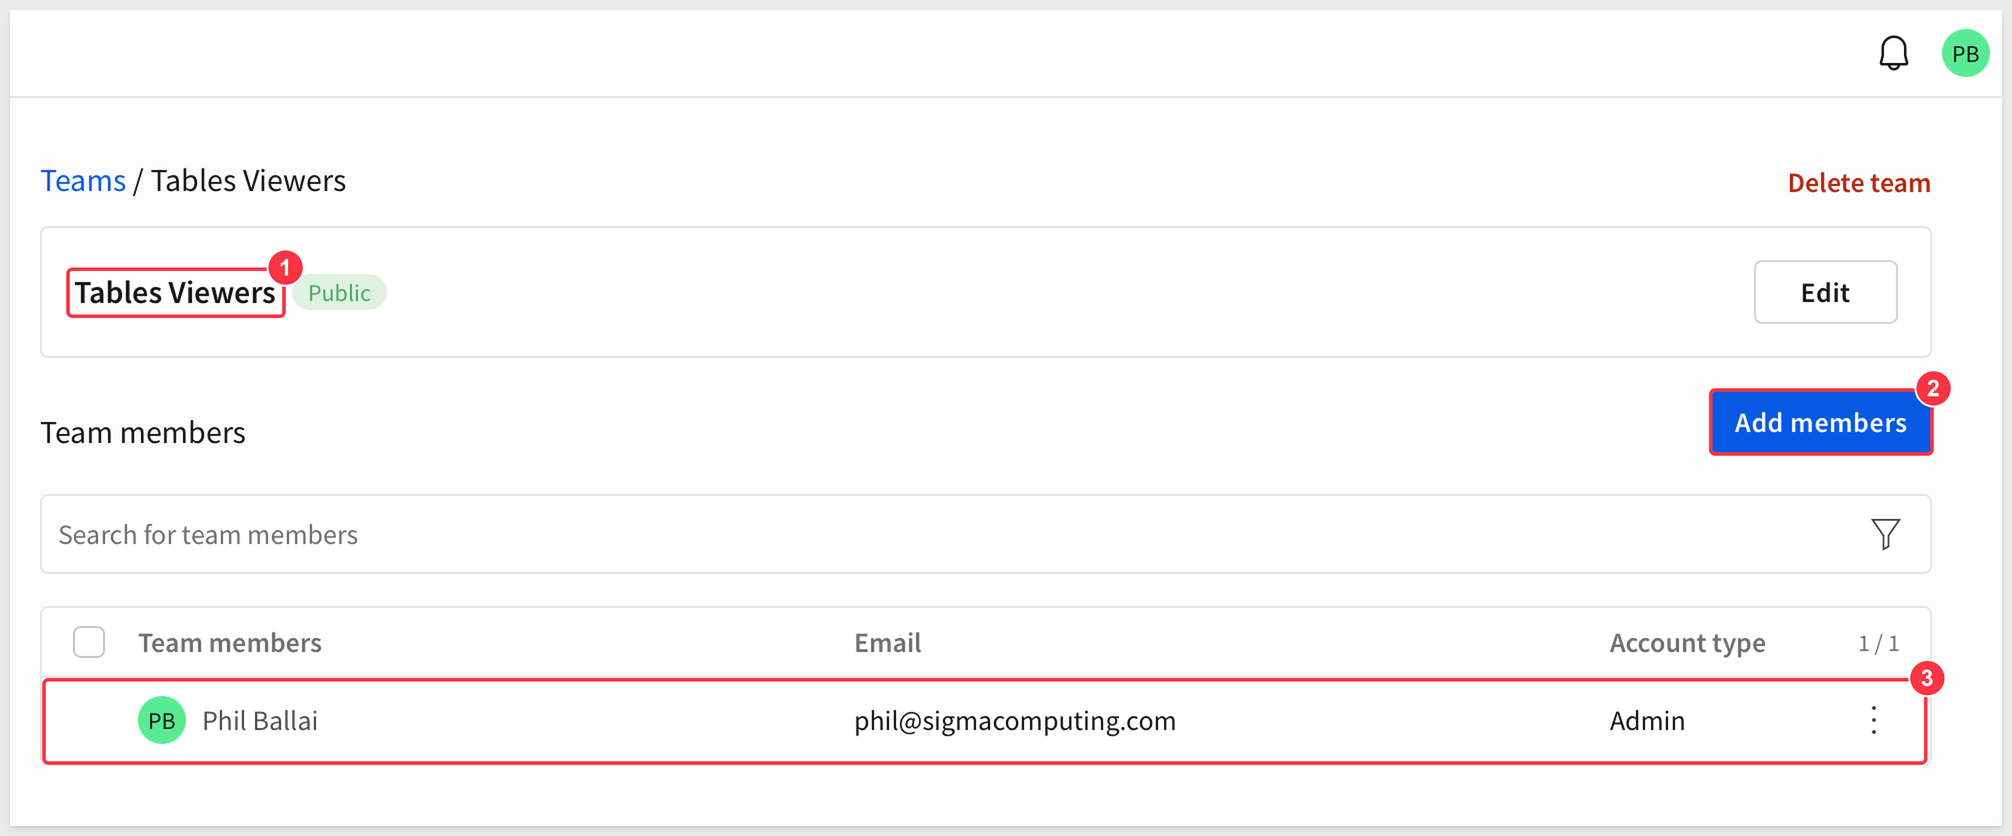
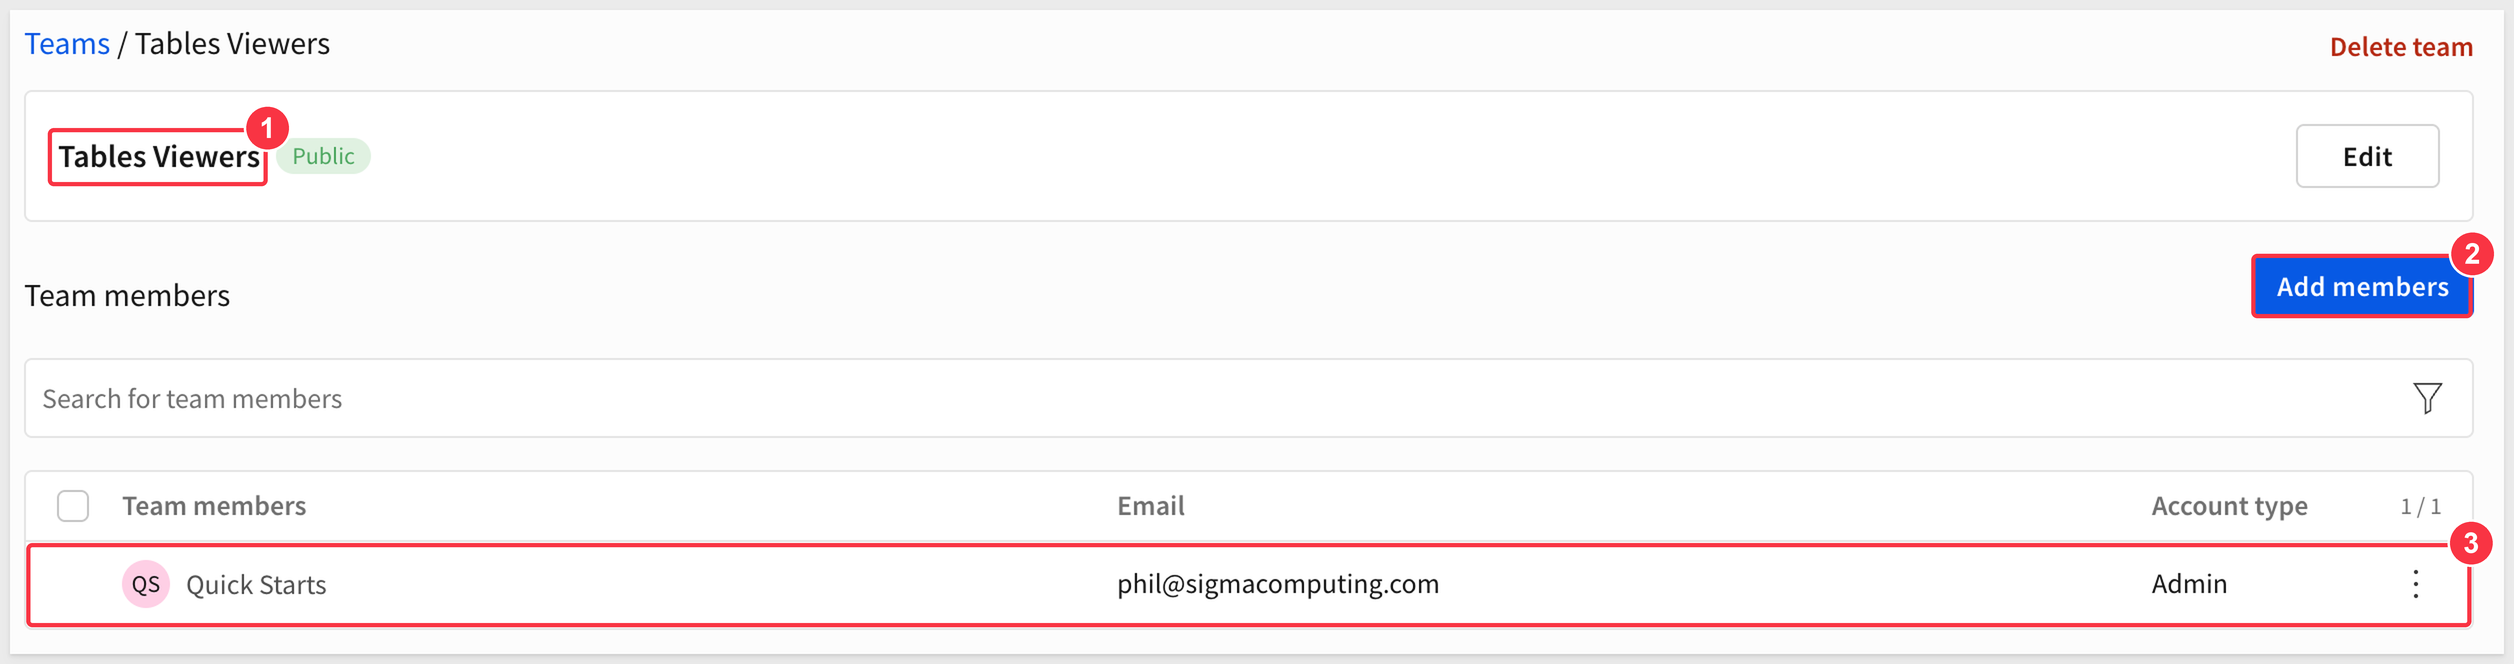
Revise Create and Promote Sigma Tables for the new grants UI and staging screenshots
Paused pending a promotion bug (source element columns do not exist after Promote table).

diff --git a/site/sigmaguides/src/tables_create_and_promote_sigma_tables/tables_create_and_promote_sigma_tables.md b/site/sigmaguides/src/tables_create_and_promote_sigma_tables/tables_create_and_promote_sigma_tables.md
@@ -73,14 +73,15 @@ A Sigma table can start from scratch, much like an input table, inside a workboo
 
 <button>[Download the Sigma Tables Sample CSV](https://sigma-quickstarts-main.s3.us-west-1.amazonaws.com/sigma-tables/sigma-tables-sample-data.csv)</button>
 
-**2.** In a workbook, open the element bar and select `Input` (1), then `Sigma table` (2). Choose to upload a CSV file. <!-- VERIFY: how the upload CSV option is chosen after Sigma table; see ctp_02 -->
+**2.** In a workbook, open the element bar and select `Input` (1), then `Sigma table` (2).
 
 <img src="assets/ctp_01.png" width="900"/>
 
-<aside class="negative"><strong>SCREENSHOT REQUIRED: ctp_02</strong><br> Create Sigma table dialog: Upload CSV tab, connection, Upload CSV button (waiting on a decision about the beta/GA sentence in the dialog)</aside>
-<!-- <img src="assets/ctp_02.png" width="700"/> -->
+In the `Create Sigma table` dialog, select the `Upload CSV` tab (1), confirm the connection (2), then click `Upload CSV` (3). The connection needs write access, because Sigma saves the table there.
 
-**3.** Select `sigma-tables-sample-data.csv` when prompted. <!-- VERIFY: confirm the file picker appears when you click Upload CSV in the Create Sigma table dialog -->
+<img src="assets/ctp_02.png" width="500"/>
+
+**3.** Select "sigma-tables-sample-data.csv" when prompted. <!-- VERIFY: confirm the file picker appears when you click Upload CSV in the Create Sigma table dialog -->
 
 **4.** In the `Upload CSV` dialog, confirm the `Connection` (1) and leave `Contains headers` selected (2). Check that `Results` shows `20 rows - 7 columns` (3), then click `Save` (4).
 
@@ -103,6 +104,14 @@ Open the data source menu (1). It offers `Manage grants` (2) to control who can 
 <aside class="negative">
 <strong>IMPORTANT:</strong><br> Change the primary key before you promote the table. It cannot be changed afterwards.
 </aside>
+
+**6.** Hide the `Id` column that Sigma added as the primary key, so the table shows only the ticket data. Open the menu for the `Id` column and select `Hide column`. <!-- VERIFY: the Hide column menu label (the capture shows Unhide column on the hidden column) -->
+
+<aside class="negative"><strong>SCREENSHOT REQUIRED: ctp_05a</strong><br> Sigma table with the Id column menu open and Hide column selected</aside>
+
+<!-- <img src="assets/ctp_05a.png" width="700"/> -->
+
+**7.** Save the workbook by clicking `Save as` and naming it `Sigma Tables Lab`. The table is local to this workbook, so saving keeps it available for the sections that follow. <!-- VERIFY: button label for a new workbook (Save vs Save as) and the name used later in the QS -->
 
 ![Footer](assets/sigma_footer.png)
 <!-- END OF SECTION-->
@@ -138,9 +147,15 @@ Sigma controls who can use a table through teams. We will create two test teams 
 ## Control Access to the Table
 Duration: 8
 
-Open the data source menu and select `Manage grants`. In the `Local table management` dialog, the `Table grants` list (1) shows who has access. For a table you created, that is you, with `Can own` (2). Select `Grant access` (3) to add others.
+A Sigma table keeps access control next to the data, so you decide who can use it without leaving the workbook. We will start by opening the grant controls for the table.
 
-<img src="assets/ctp_11.png" width="900"/>
+**1.** Return to the `Sigma Tables Lab` workbook and select the Sigma table.
+
+**2.** In the element panel, open the data source menu (1) and select `Manage grants` (2).
+
+<img src="assets/ctp_11.png" width="400"/>
+
+<!-- VERIFY: the Manage grants dialog changed in the new UI. The paragraph that described the old `Local table management` dialog (Table grants list, `Can own`, `Grant access`) was removed 2026-11-11. Capture the new dialog, then write what it shows and how to add others. -->
 
 <!-- VERIFY: row and column rules are not visible in this dialog (it scrolls right). The draft said: Under `Row and column level rules`, the default rule gives other people `View and edit` on all rows and all columns. Capture it, or remove it, and re-check the `Add rule` steps below. -->
 
@@ -148,26 +163,42 @@ Open the data source menu and select `Manage grants`. In the `Local table manage
 
 To restrict this, add rules that stack on top of each other:
 
-**1.** Click `Add rule`, select the `Tables Viewers` team, and set the permission to `View`.
+**1.** Click `Add rule` (1), select the `Tables Viewers` team under `Who can access` (2), and set `Permit to` as `View only` (3). Leave `Row` set to `All rows`, make sure `Column` is turned on, and clear `Id` in the column list so the team sees every other column. <!-- VERIFY: column picker behavior and label; ctp_12 shows `7 columns` because the Column list was already changed -->
 
-**2.** Add a second rule for the `Tables Editors` team with `View and edit`.
+**2.** Add a second rule for the `Tables Editors` team with `View and edit`. With `View and edit`, `Column` is always on, so select `All columns`. Editors can then see the `Id` column, which the viewers cannot.
 
-**3.** Click `Save`.
+**3.** Click `Save` (4).
 
-<aside class="negative"><strong>SCREENSHOT REQUIRED: ctp_12</strong><br> Add rule dialog with the team rules set up (use clean test teams)</aside>
-<!-- <img src="assets/ctp_12.png" width="900"/> -->
-<!-- SOURCE FRAME: frames/t0162.jpg, t0172.jpg, t0193.jpg. Recapture. -->
+<img src="assets/ctp_12.png" width="900"/>
 
-Rules can apply at the row level or the column level. <!-- VERIFY: how rows and columns are scoped in the rule dialog -->
+Under `Scope`, `Row` is on by default and limits a rule to specific rows. `Column` limits it to specific columns. With `View only`, turn `Column` on to choose the columns. With `View and edit`, `Column` cannot be turned off, the primary key column is included by default, and you can add more columns or select `All columns`.
 
-Back in the workbook, the table now shows no data, as expected: the current user is not on either team. Remove the rule to see the data again.
+### User Impersonation
 
-<aside class="negative"><strong>SCREENSHOT REQUIRED: ctp_13</strong><br> Table showing "No data" while the rules exclude you</aside>
-<!-- <img src="assets/ctp_13.png" width="700"/> -->
-<!-- SOURCE FRAME: frames/t0186.jpg (No data). Recapture. -->
+Back in the workbook, the table still shows all of its data. Your account was granted access to the table, so the rules do not apply to you. To see them in effect, impersonate a user who is assigned to one of the teams. If your account has no additional users to try this with, such as in a trial, follow along with the screenshots.
+
+Impersonated users need access to the workbook, so share it with both teams first. In the `Share Workbook` dialog, give `Tables Viewers` the `Can view` permission (1) and `Tables Editors` the `Can edit` permission (2), then click `Share` (3). <!-- VERIFY: how the Share Workbook dialog is opened (button label and location) -->
+
+<img src="assets/ctp_13a.png" width="700"/>
+
+For this test, we assigned two test users to the teams: one to `Tables Viewers` and one to `Tables Editors`.
+
+In `Administration` > `Users`, open the menu for a user on the `Tables Viewers` team (1) and select `Impersonate user` (2).
+
+<img src="assets/ctp_13b.png" width="900"/>
+
+After you select `Impersonate user`, open the `Sigma Tables Lab` workbook. The banner (1) shows who you are logged in as. The viewer does not see the `Id` column we hid earlier, and cannot edit the workbook to add it back. When you are done, select `Stop impersonation` (2).
+
+<img src="assets/ctp_13.png" width="900"/>
+
+<!-- VERIFY: how the workbook is opened after impersonation starts. The capture shows the viewer in a custom view of the workbook. -->
+
+Impersonate the editor the same way. The editor can edit the workbook and the rule gives them `All columns`, so they can unhide `Id` if they want to: in the element panel, open the menu for `Id` (2) and select `Unhide column` (3). The banner (1) confirms who you are logged in as. <!-- VERIFY: where the Id menu is opened from in the element panel, and what the table shows after Unhide column -->
+
+<img src="assets/ctp_13c.png" width="900"/>
 
 <aside class="positive">
-<strong>NOTE:</strong><br> This is a good way to confirm a rule works before you rely on it: test it as a user who should not have access.
+<strong>NOTE:</strong><br> This is a good way to confirm a rule works before you rely on it: view the table as a user the rule applies to.
 </aside>
 
 ![Footer](assets/sigma_footer.png)
@@ -178,17 +209,27 @@ Duration: 8
 
 A local Sigma table lives in one workbook. Promoting it creates a shared table in your data platform that any workbook can use.
 
-**1.** From the table's data source menu, select `Promote table`.
+<aside class="positive">
+<strong>NOTE:</strong><br> Promote the table to a connection you own, not `Sigma Sample Database`. We created this table on `Sigma Sample Database`, so if you do not have a connection with write access of your own, follow along with the steps and screenshots.
+</aside>
 
-**2.** Choose a destination schema. If you have access to more than one schema, you can place tables in different business-unit buckets.
+**1.** From the table's data source menu (1), select `Promote table` (2).
 
-**3.** Enter a name, for example `ST_DEMO_101`. The dialog shows the columns that will be included and how their names will map.
+<img src="assets/ctp_13d.png" width="450"/>
 
-**4.** Click `Create`. <!-- VERIFY: button label -->
+**2.** In `Table name`, enter a name, for example `ST_DEMO_101` (1).
 
-<aside class="negative"><strong>SCREENSHOT REQUIRED: ctp_14</strong><br> Promote dialog: schema, table name, column mapping preview</aside>
-<!-- <img src="assets/ctp_14.png" width="700"/> -->
-<!-- SOURCE FRAME: frames/t0235.jpg. Recapture. -->
+**3.** In `Schema`, choose a destination on your own connection (2). If you have access to more than one schema, you can place tables in different business-unit buckets.
+
+**4.** Review `Columns included` (3). The dialog shows the columns that will be included and how their names will map.
+
+**5.** Click `Promote` (4).
+
+<img src="assets/ctp_14.png" width="900"/>
+
+<aside class="negative">
+<strong>IMPORTANT:</strong><br> Edits made during promotion may be lost, so make sure there are no pending edits before you click `Promote`.
+</aside>
 
 The result is a shared Sigma table. The name changes, and in the data source it now looks like a warehouse table, although it is editable. Select `View` to open it in the connection explorer, where it appears in the write-back schema with standard column names.
 
